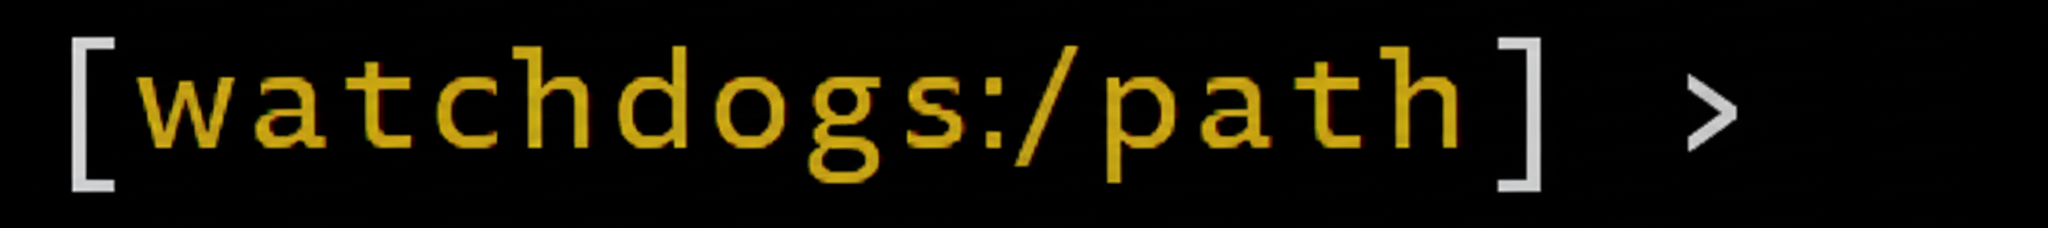
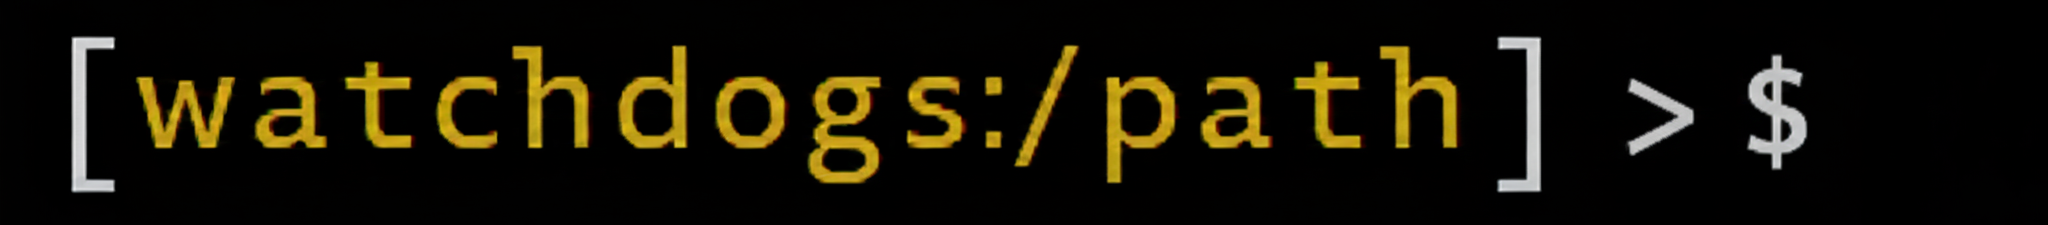
-more improved

diff --git a/chain.c b/chain.c
@@ -117,7 +117,7 @@ _command:
         }
 
         char prompt[PATH_MAX + 100];
-        snprintf(prompt, sizeof(prompt), "[" COL_YELLOW "watchdogs:%s" COL_DEFAULT "] > ", cwd);
+        snprintf(prompt, sizeof(prompt), "[" COL_YELLOW "watchdogs:%s" COL_DEFAULT "] > $", cwd);
         char* ptr_command = readline_colored(prompt);
 
         if (ptr_command == NULL || ptr_command[0] == '\0') goto _command;
@@ -436,18 +436,16 @@ _runners_:
             goto _runners_;
         } else if (strcmp(ptr_command, _dist_command) != 0 && c_distance <= 2) {
             watch_title("Watchdogs | @ undefined");
-            printf("did you mean: '%s'?", _dist_command);
+            printf("did you mean '" COL_YELLOW "%s" COL_DEFAULT "'", _dist_command);
             char *confirm = readline(" [y/n]: ");
             if (confirm) {
                 if (strcmp(confirm, "Y") == 0 || strcmp(confirm, "y") == 0) {
                     ptr_command = strdup(_dist_command);
                     if (confirm) { free(confirm); }
                     goto _reexecute_command;
-                } else {
-                    if (confirm) { free(confirm); }
+                } else if (strcmp(confirm, "N") == 0 || strcmp(confirm, "n") == 0)
                     goto _command;
-                }
-            }
+            } else { goto _command; }
         } else {
             if (strlen(ptr_command) > 0) {
                 watch_title("Watchdogs | @ not found");
